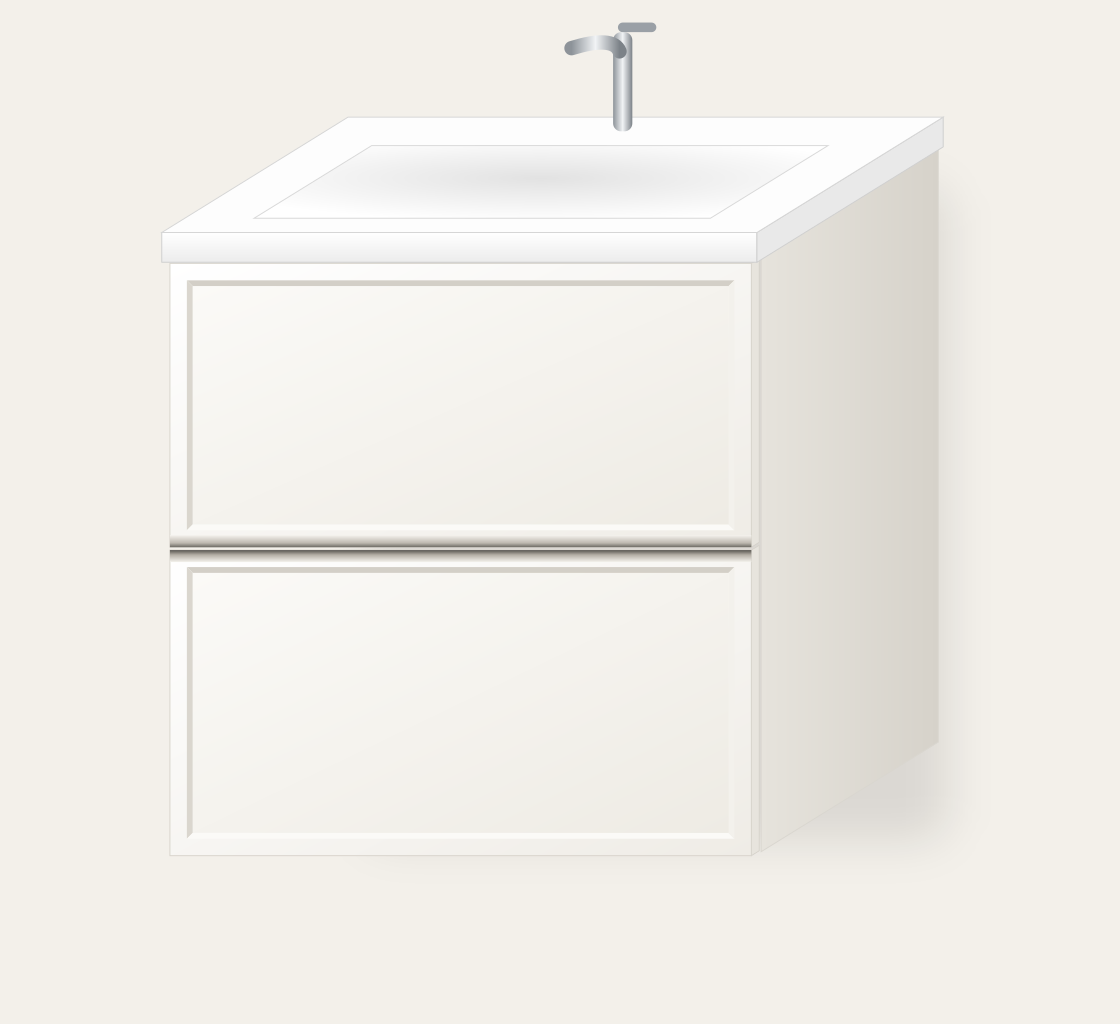
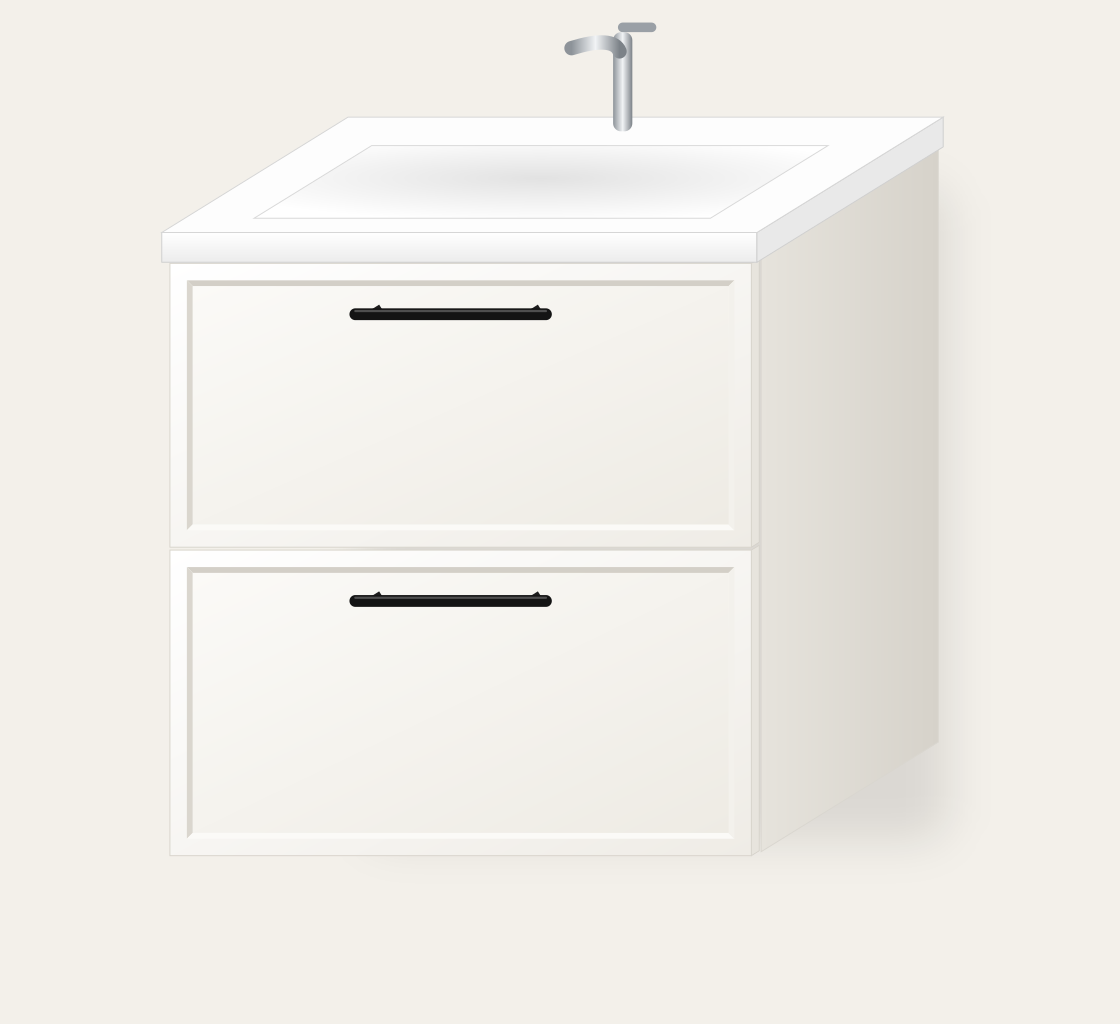
Модель 2: без фрезерованной проходной ручки, ручки накладные (модель уточнить); визуалы m2/m3 — ручки поверх фрезеровки
Claude-Session: https://claude.ai/code/session_01SKsW9NAaUaCHRJukYAe96U

Changed region(s): [[0.1562, 0.5, 0.6875, 0.5938], [0.3125, 0.2812, 0.5, 0.3125]]

diff --git a/modeli/vizual_podves.py b/modeli/vizual_podves.py
@@ -15,6 +15,18 @@ ox, oy = 105, 120
 SINK_W, SINK_D, SINK_H = 600, 447, 30
 
 
+def handle(v, P, xy, hx, hy, zf=0):
+    """Условная накладная ручка: чёрная планка ~192 мм, межосевое 160, вылет 24."""
+    for cc in (hx - 80, hx + 80):
+        (x1, y1), (x2, y2) = xy(P(cc, hy, zf)), xy(P(cc, hy, zf - 24))
+        v.append(f'<line x1="{x1}" y1="{y1}" x2="{x2}" y2="{y2}" stroke="#1d1d1d" stroke-width="{8*s:.1f}"/>')
+    (sax, say), (sbx, sby) = xy(P(hx - 96 + 4, hy - 10, zf)), xy(P(hx + 96 + 4, hy - 10, zf))
+    v.append(f'<line x1="{sax}" y1="{say}" x2="{sbx}" y2="{sby}" stroke="rgba(0,0,0,.18)" stroke-width="{12*s:.1f}" stroke-linecap="round" filter="url(#blur)"/>')
+    (ax, ay), (bx, by) = xy(P(hx - 96, hy, zf - 24)), xy(P(hx + 96, hy, zf - 24))
+    v.append(f'<line x1="{ax}" y1="{ay}" x2="{bx}" y2="{by}" stroke="#141414" stroke-width="{12*s:.1f}" stroke-linecap="round"/>')
+    v.append(f'<line x1="{ax}" y1="{ay-2}" x2="{bx}" y2="{by-2}" stroke="rgba(255,255,255,.25)" stroke-width="1.4" stroke-linecap="round"/>')
+
+
 def render(mkey, style):
     c = config.product_config(mkey, "adamant-quanto", 60)
     parts, facades, g = model.build(c)
@@ -57,11 +69,6 @@ def render(mkey, style):
             v.append(poly([o[1], o[0], n[0], n[1]], "#fbfaf7"))
             v.append(poly([o[2], o[1], n[1], n[2]], "#f3f1ec"))
             v.append(poly(n, "url(#panelGrad)"))
-            # фрезерованная проходная ручка в стыке: у F1 по низу, у F2 по верху — скос 45° и тень
-            if f["code"] == "F1":
-                v.append(poly([P(xl, bot, zf), P(xr, bot, zf), P(xr, bot + 12, zf), P(xl, bot + 12, zf)], "url(#pullTop)"))
-            if f["code"] == "F2":
-                v.append(poly([P(xl, top - 12, zf), P(xr, top - 12, zf), P(xr, top, zf), P(xl, top, zf)], "url(#pullBot)"))
         if style == "sunset":
             # вертикальные волны, шаг 64 от центра фасада (CR), у торцов неполная волна
             cx = (xl + xr) / 2
@@ -72,16 +79,9 @@ def render(mkey, style):
                 if b2 - a < 2:
                     continue
                 v.append(poly([P(a, bot, zf), P(b2, bot, zf), P(b2, top, zf), P(a, top, zf)], "url(#wave)"))
-            # ручка (условно: чёрная планка, межосевое 160) — по центру, 45 мм от верха
-            hx, hy = cx, top - 45
-            for cc in (hx - 80, hx + 80):
-                (x1, y1), (x2, y2) = xy(P(cc, hy, zf)), xy(P(cc, hy, zf - 24))
-                v.append(f'<line x1="{x1}" y1="{y1}" x2="{x2}" y2="{y2}" stroke="#1d1d1d" stroke-width="{8*s:.1f}"/>')
-            (sax, say), (sbx, sby) = xy(P(hx - 96 + 4, hy - 10, zf)), xy(P(hx + 96 + 4, hy - 10, zf))
-            v.append(f'<line x1="{sax}" y1="{say}" x2="{sbx}" y2="{sby}" stroke="rgba(0,0,0,.18)" stroke-width="{12*s:.1f}" stroke-linecap="round" filter="url(#blur)"/>')
-            (ax, ay), (bx, by) = xy(P(hx - 96, hy, zf - 24)), xy(P(hx + 96, hy, zf - 24))
-            v.append(f'<line x1="{ax}" y1="{ay}" x2="{bx}" y2="{by}" stroke="#141414" stroke-width="{12*s:.1f}" stroke-linecap="round"/>')
-            v.append(f'<line x1="{ax}" y1="{ay-2}" x2="{bx}" y2="{by-2}" stroke="rgba(255,255,255,.25)" stroke-width="1.4" stroke-linecap="round"/>')
+    for f in facades:   # ручки поверх фрезеровки
+        if f["code"] in ("F1", "F2"):
+            handle(v, P, xy, f["x"] + f["w"] / 2, Y0 + f["top"] - 45)
     # умывальник
     sx = (W - SINK_W) / 2
     sz0, sz1 = zb - SINK_D, zb

diff --git a/izdeliya/T2-Q60/spec.md b/izdeliya/T2-Q60/spec.md
@@ -47,7 +47,7 @@
 
 ## Фасады (МДФ, заказать отдельно)
 
-Толщина 19 мм, фарбований МДФ ViyarFronts, фрезерування «Маура» (тонка рамка ~20 мм, тільки 19 мм), білий, мат; ручка фрезерована прохідна New на всю ширину: у F1 по нижньому торцю, у F2 по верхньому (у стику фасадів), виконання #2 (R23). Цвет: белый (корпус и фасады).  
+Толщина 19 мм, фарбований МДФ ViyarFronts, фрезерування «Маура» (тонка рамка ~20 мм, тільки 19 мм), білий, мат; без фрезерованої ручки. Цвет: белый (корпус и фасады).  
 Заказ: ViyarPro → фарбовані фасади. Спросить у менеджера про влагостойкую основу МДФ.
 
 | Код | Фасад | Размер, мм | Шт |
@@ -66,7 +66,7 @@
 | Заглушки на эксцентрики в цвет (по желанию, они только внутри) | — | по месту |
 | Саморез 4×16 (направляющие к боковинам) | — | ~24 |
 | Саморез 4×25 (фасад к ящику изнутри) | — | 8 |
-| Ручка фрезерована прохідна New (ViyarFronts) на всю ширину фасаду: F1 — по нижнему торцу, F2 — по верхнему; вариант выхода на торец #2 (R23) | — | 2 |
+| Ручки накладні (модель уточнити: серія Smart / Cosma, ВіЯр), міжцентрова 160 — по центру фасаду, зверху | — | 2 |
 | Крепление к стене: 2 анкера/шурупа 8×80 через заднюю верхнюю царгу или 2 навеса для подвесных тумб | — | 1 компл. |
 | Ограничитель для сифона пластиковий W=160 L=245 H=86 R=80, білий, Mesan | 228527 | 1 |
 | Сифон компактный (плоский) | — | 1 |
